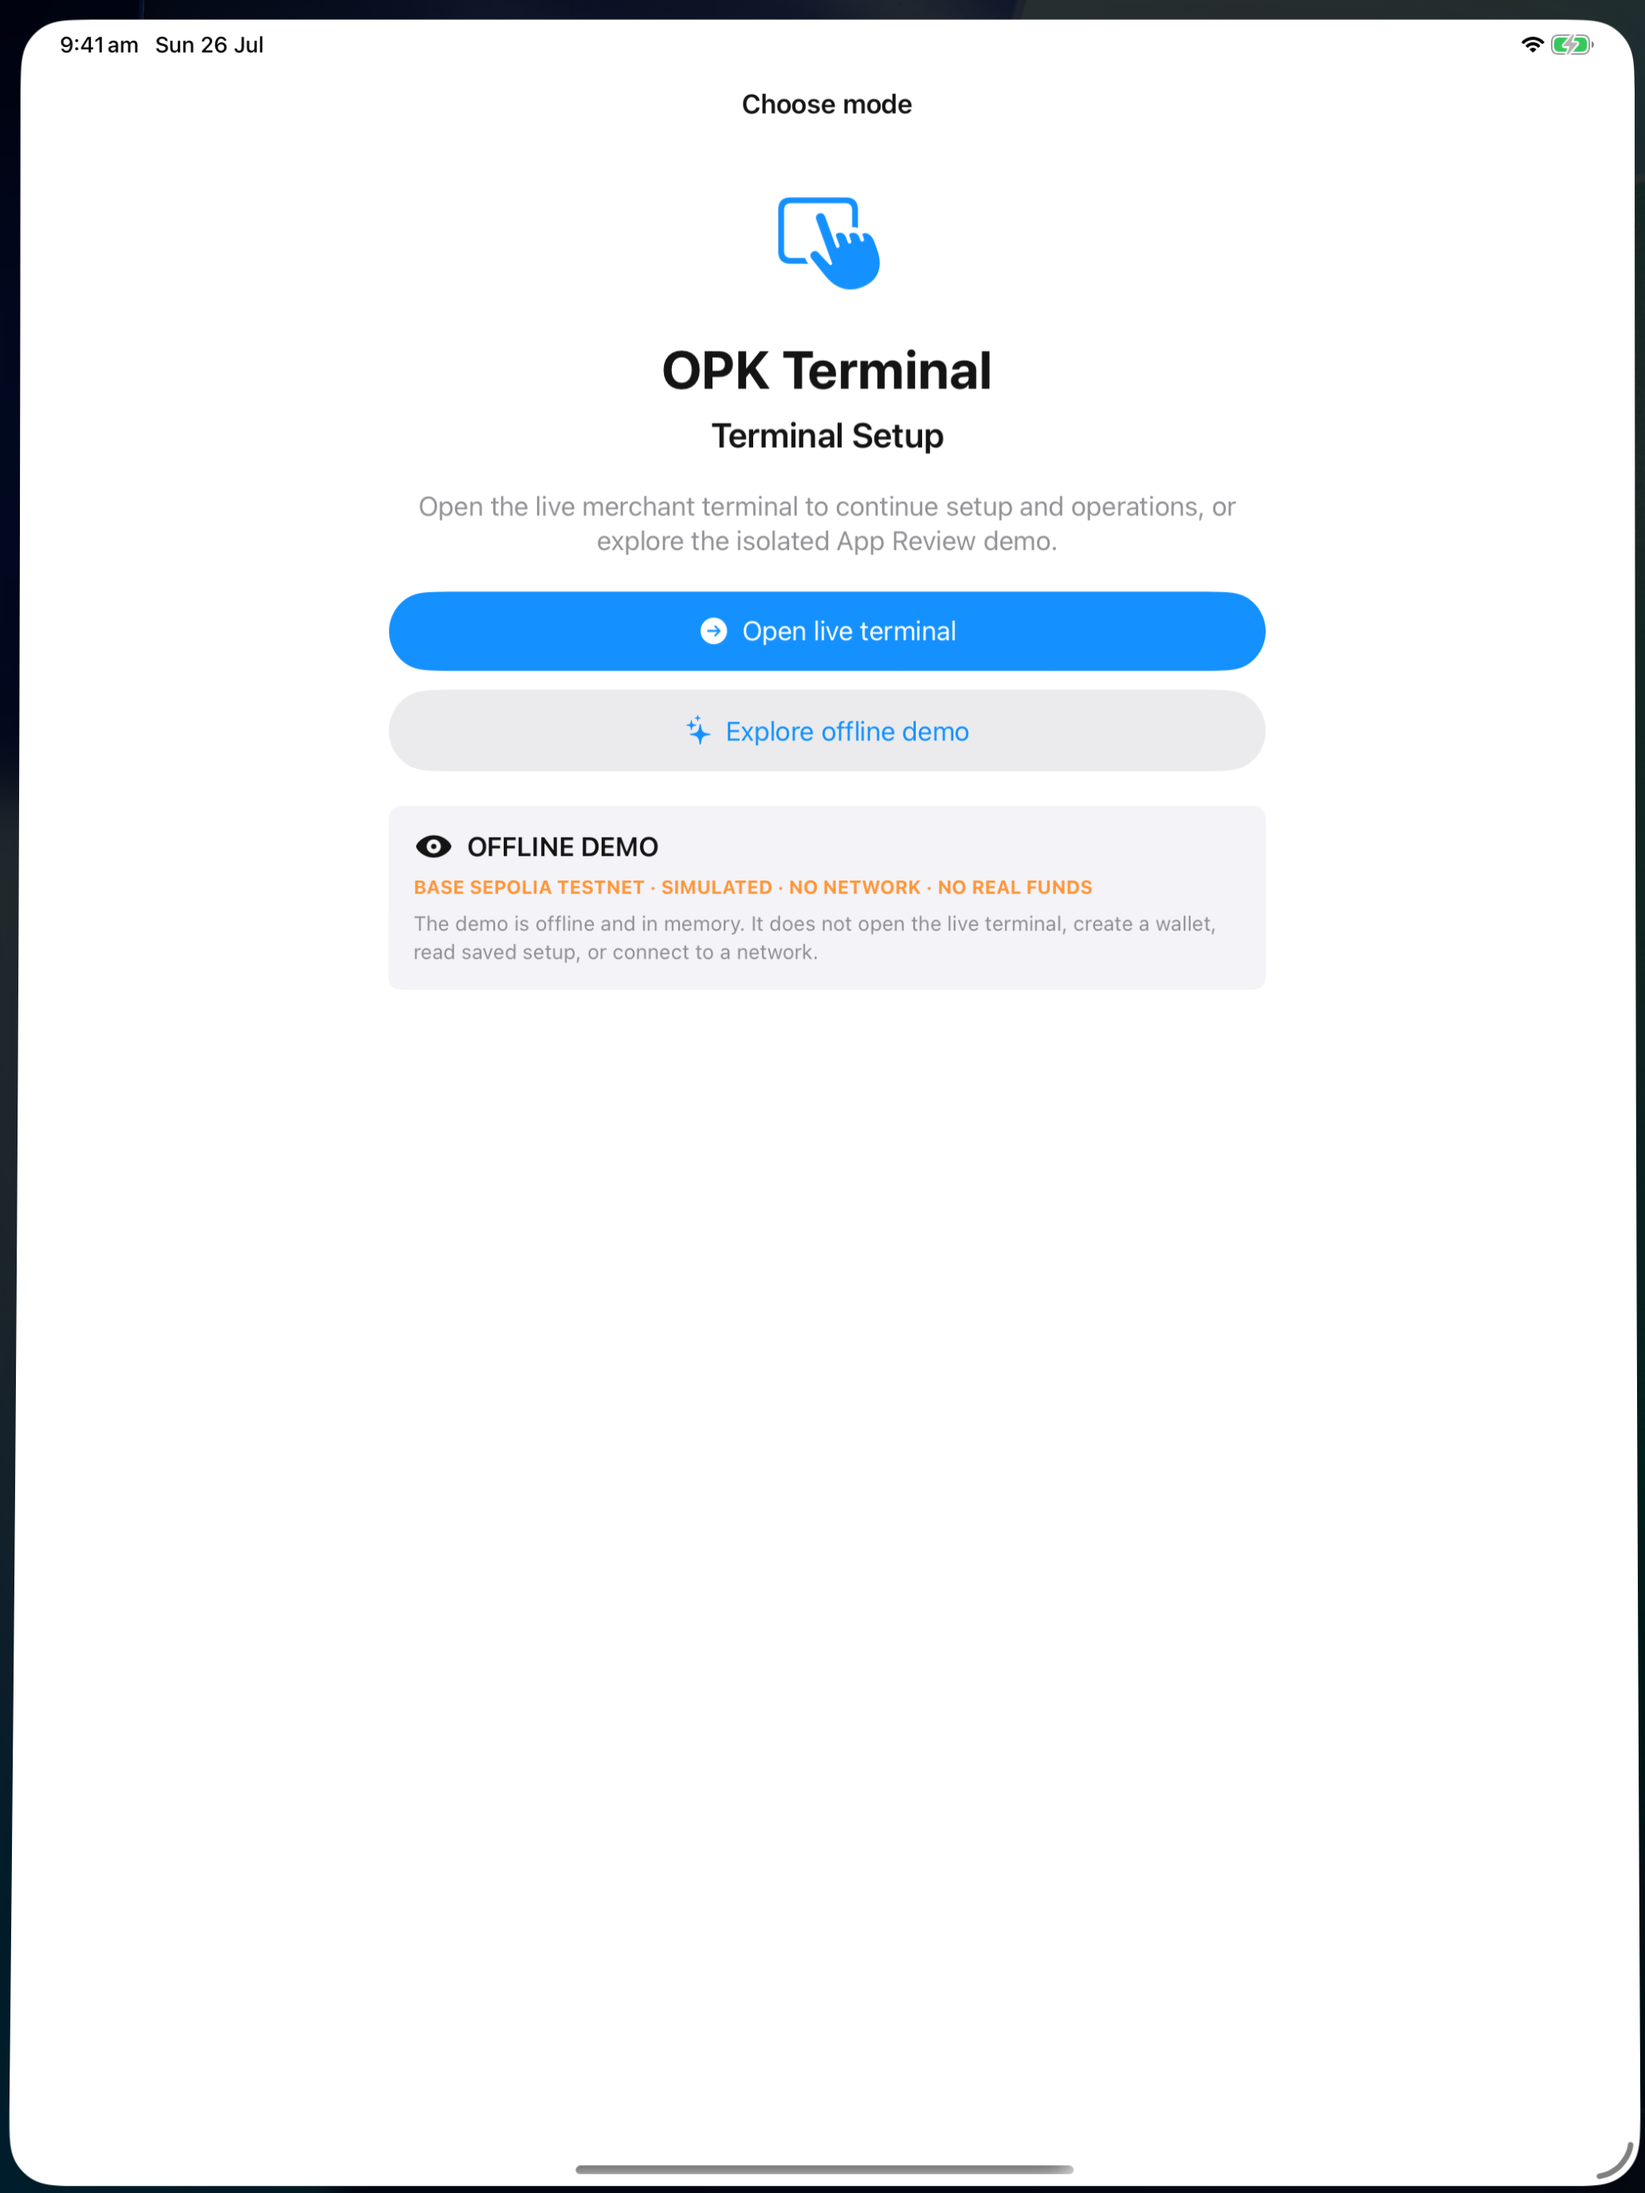
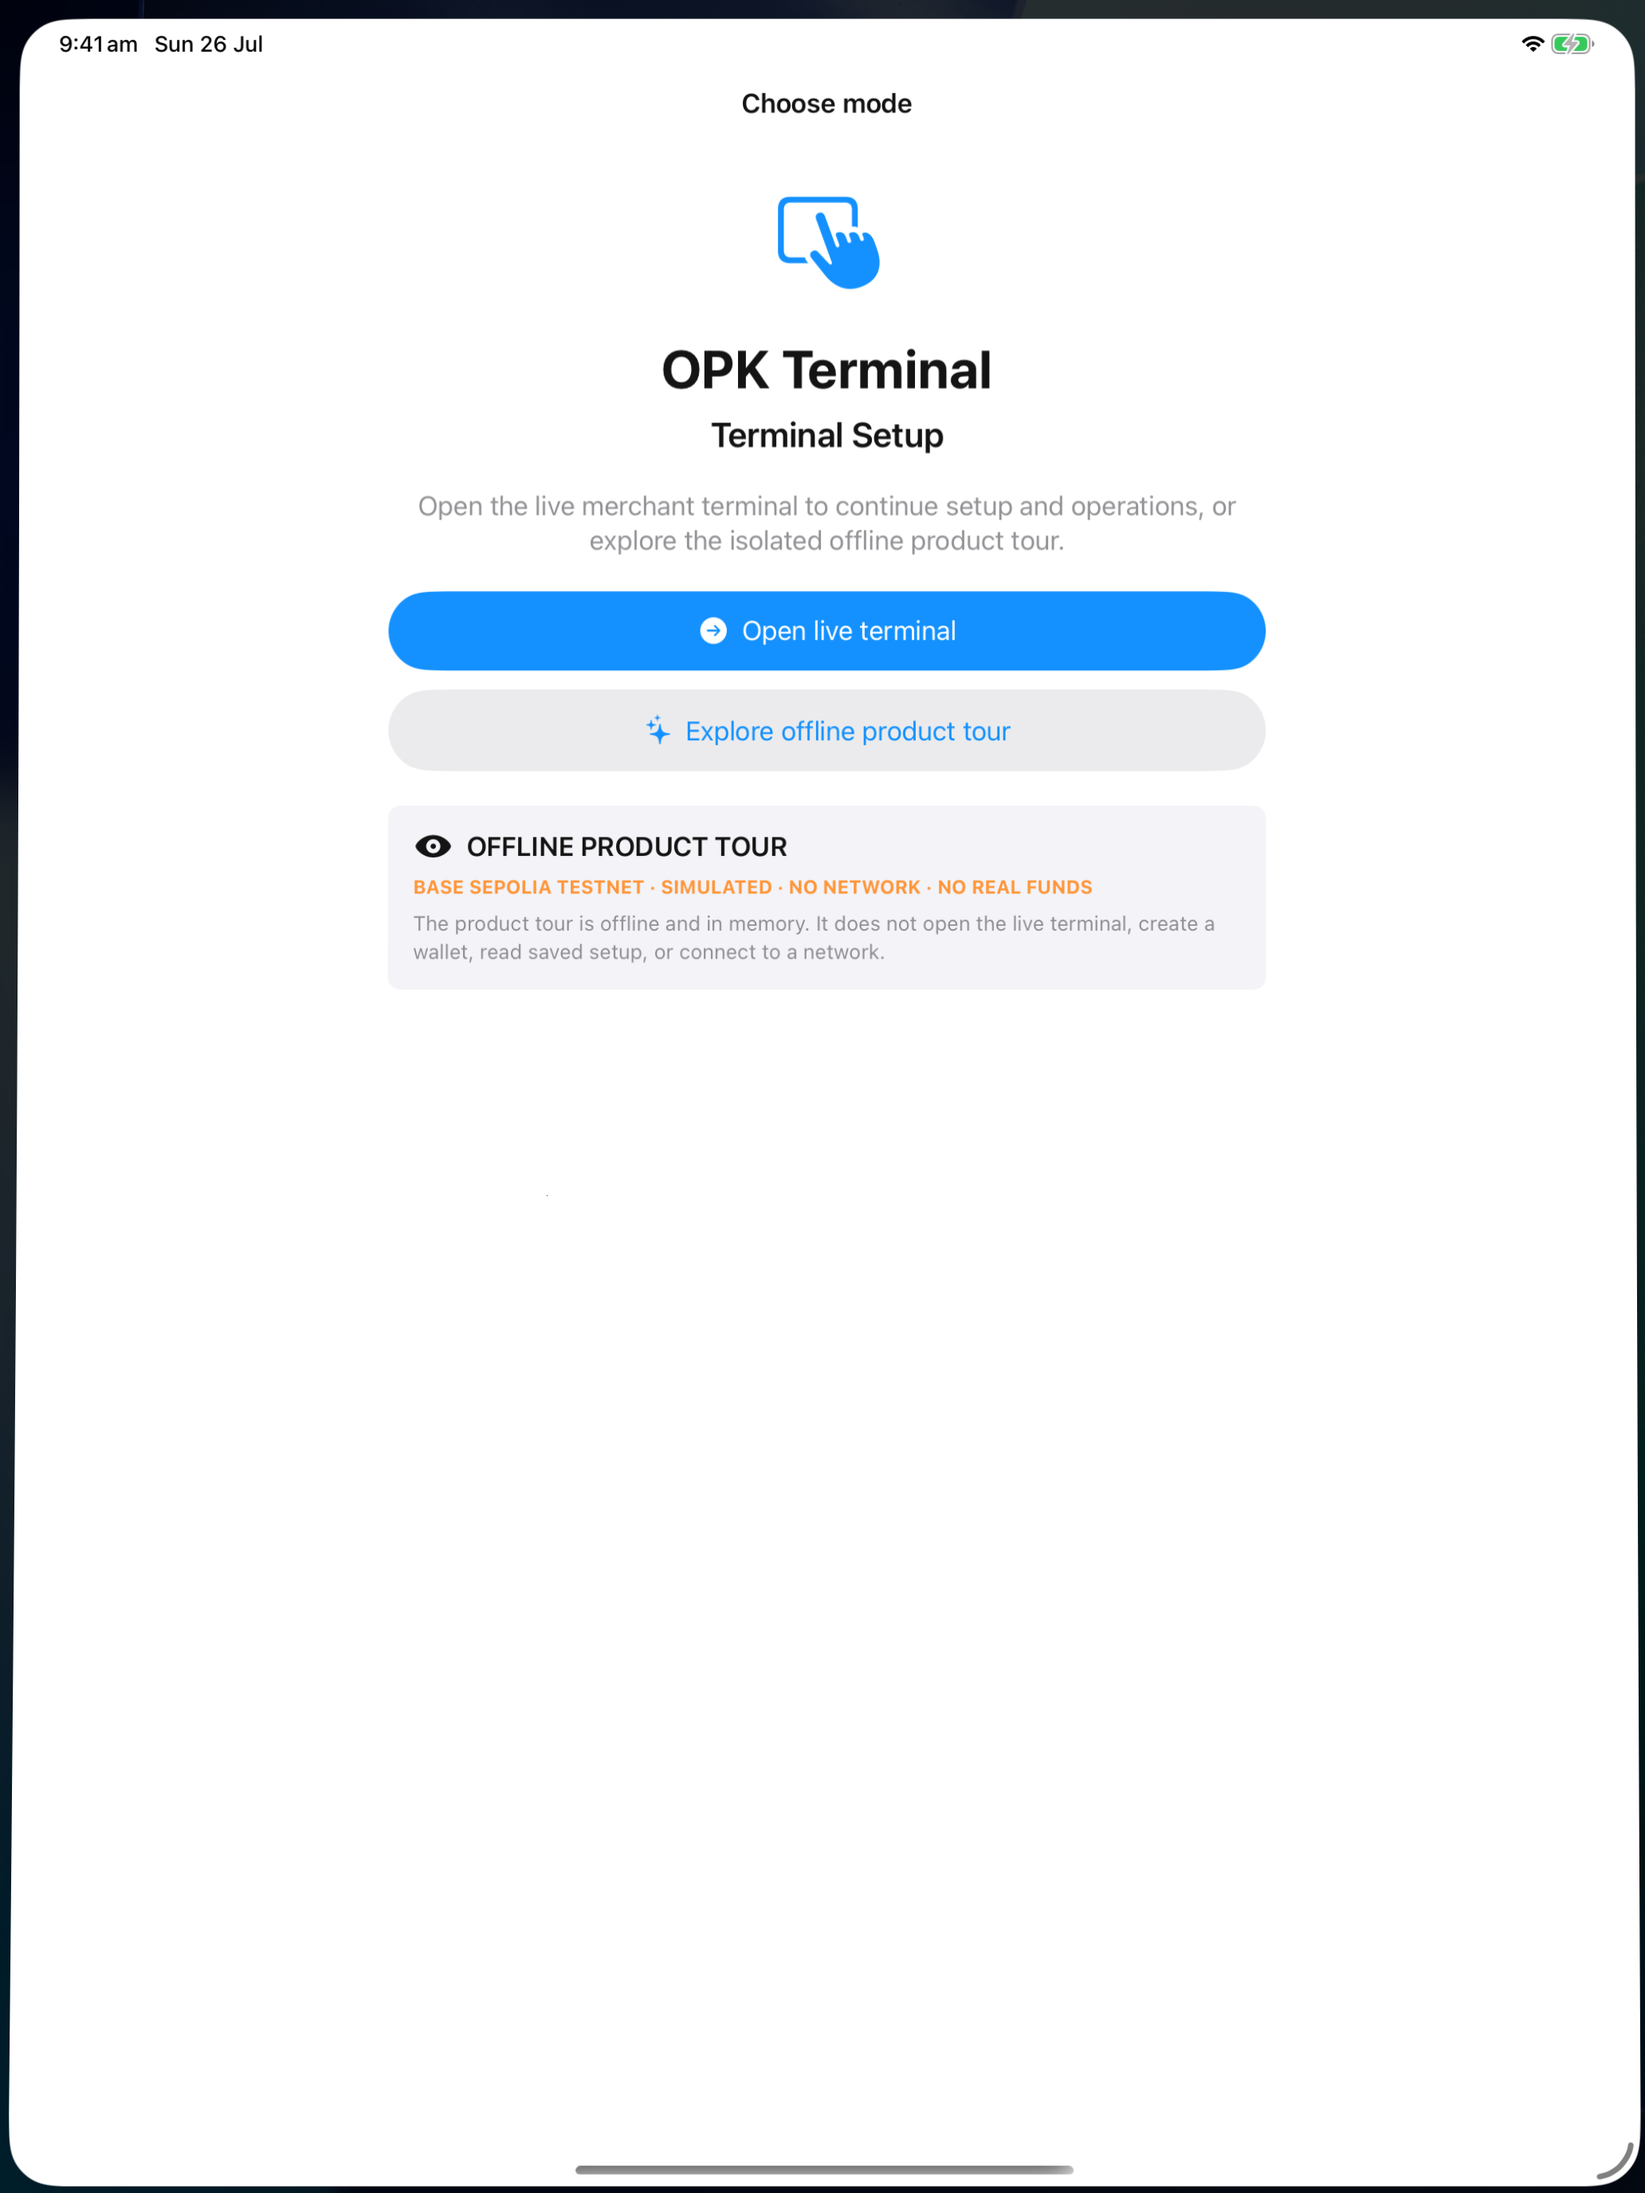
release: prepare build 14 store candidate

diff --git a/ios/App/Sources/TerminalLaunch.swift b/ios/App/Sources/TerminalLaunch.swift
@@ -50,7 +50,7 @@ struct TerminalLaunchChooserView: View {
                     }
 
                     Text(
-                        "Open the live merchant terminal to continue setup and operations, or explore the isolated App Review demo."
+                        "Open the live merchant terminal to continue setup and operations, or explore the isolated offline product tour."
                     )
                     .foregroundStyle(.secondary)
                     .multilineTextAlignment(.center)
@@ -65,7 +65,7 @@ struct TerminalLaunchChooserView: View {
                         .accessibilityIdentifier("launchOpenLiveTerminalButton")
 
                         Button(action: onExploreDemo) {
-                            Label("Explore offline demo", systemImage: "sparkles")
+                            Label("Explore offline product tour", systemImage: "sparkles")
                                 .frame(maxWidth: .infinity)
                         }
                         .buttonStyle(.bordered)
@@ -75,7 +75,7 @@ struct TerminalLaunchChooserView: View {
 
                     GroupBox {
                         VStack(alignment: .leading, spacing: 8) {
-                            Label("OFFLINE DEMO", systemImage: "eye.fill")
+                            Label("OFFLINE PRODUCT TOUR", systemImage: "eye.fill")
                                 .font(.headline)
                             Text(
                                 "BASE SEPOLIA TESTNET · SIMULATED · NO NETWORK · NO REAL FUNDS"
@@ -83,7 +83,7 @@ struct TerminalLaunchChooserView: View {
                                 .font(.caption.weight(.bold))
                                 .foregroundStyle(.orange)
                             Text(
-                                "The demo is offline and in memory. It does not open the live terminal, create a wallet, read saved setup, or connect to a network."
+                                "The product tour is offline and in memory. It does not open the live terminal, create a wallet, read saved setup, or connect to a network."
                             )
                             .font(.footnote)
                             .foregroundStyle(.secondary)

diff --git a/android/app/src/main/java/com/openpasskey/terminal/ui/demo/ColdLaunchRoot.kt b/android/app/src/main/java/com/openpasskey/terminal/ui/demo/ColdLaunchRoot.kt
@@ -105,7 +105,7 @@ private fun ColdLaunchChoice(
             textAlign = TextAlign.Center,
         )
         Text(
-            "Terminal setup & review",
+            "Merchant terminal setup",
             modifier = Modifier.padding(top = 8.dp, bottom = 24.dp),
             style = MaterialTheme.typography.titleMedium,
             color = MaterialTheme.colorScheme.onSurfaceVariant,
@@ -142,12 +142,12 @@ private fun ColdLaunchChoice(
                 verticalArrangement = Arrangement.spacedBy(12.dp),
             ) {
                 Text(
-                    "App reviewer?",
+                    "Explore OPK Terminal",
                     style = MaterialTheme.typography.titleLarge,
                     fontWeight = FontWeight.Bold,
                 )
                 Text(
-                    "Explore a self-contained offline preview before any wallet, storage, " +
+                    "Take a self-contained offline product tour before any wallet, storage, " +
                         "authentication, or network service is opened.",
                     style = MaterialTheme.typography.bodyMedium,
                 )
@@ -158,7 +158,7 @@ private fun ColdLaunchChoice(
                         .testTag("cold_launch_reviewer_demo"),
                 ) {
                     Icon(Icons.Default.PlayCircleOutline, contentDescription = null)
-                    Text("  Explore offline reviewer demo")
+                    Text("  Explore offline product tour")
                 }
                 Text(
                     "This preview does not configure or authorize the terminal.",

diff --git a/android/app/src/main/java/com/openpasskey/terminal/ui/demo/ReviewerDemoScreen.kt b/android/app/src/main/java/com/openpasskey/terminal/ui/demo/ReviewerDemoScreen.kt
@@ -41,7 +41,7 @@ import androidx.compose.ui.unit.dp
 import com.openpasskey.terminal.ui.components.QRCodeView
 
 /**
- * A self-contained reviewer preview. Its only input is a close callback, and its state is held
+ * A self-contained offline product tour. Its only input is a close callback, and its state is held
  * with [remember] rather than saveable or persistent storage so every closed/relaunched session
  * starts at Checkout / Waiting.
  */
@@ -53,7 +53,7 @@ internal fun ReviewerDemoScreen(onClose: () -> Unit) {
     Scaffold(
         topBar = {
             TopAppBar(
-                title = { Text("Offline reviewer demo") },
+                title = { Text("Offline product tour") },
                 navigationIcon = {
                     IconButton(
                         onClick = onClose,
@@ -61,7 +61,7 @@ internal fun ReviewerDemoScreen(onClose: () -> Unit) {
                     ) {
                         Icon(
                             Icons.AutoMirrored.Filled.ArrowBack,
-                            contentDescription = "Close reviewer demo",
+                            contentDescription = "Close product tour",
                         )
                     }
                 },

diff --git a/android/app/src/main/java/com/openpasskey/terminal/ui/demo/ReviewerDemoContract.kt b/android/app/src/main/java/com/openpasskey/terminal/ui/demo/ReviewerDemoContract.kt
@@ -1,7 +1,7 @@
 package com.openpasskey.terminal.ui.demo
 
 /**
- * Static, non-secret sample content for the reviewer-only offline preview.
+ * Static, non-secret sample content for the offline product tour.
  *
  * This contract deliberately contains only immutable values and a pure state reducer. It has no
  * Android, repository, persistence, wallet, authentication, signing, or network dependencies.
@@ -13,7 +13,7 @@ internal object ReviewerDemoCopy {
     const val NETWORK_LABEL = "BASE SEPOLIA TESTNET"
     const val FUNDS_LABEL = "NO REAL FUNDS"
     const val SAFETY_EXPLANATION =
-        "Offline reviewer preview. Nothing leaves this screen: no account, wallet, PIN, " +
+        "Offline product tour. Nothing leaves this screen: no account, wallet, PIN, " +
             "authentication, network request, signing, or transaction is used."
     const val RESET_EXPLANATION =
         "Demo activity is held in memory only and resets when you close this preview."

diff --git a/android/app/src/androidTest/java/com/openpasskey/terminal/ui/demo/ColdLaunchDemoIsolationTest.kt b/android/app/src/androidTest/java/com/openpasskey/terminal/ui/demo/ColdLaunchDemoIsolationTest.kt
@@ -51,7 +51,11 @@ class ColdLaunchDemoIsolationTest {
         }
 
         composeRule.onNodeWithTag("cold_launch_choice").assertIsDisplayed()
+        composeRule.onNodeWithText("Explore OPK Terminal").assertIsDisplayed()
+        composeRule.onNodeWithText("Explore offline product tour", substring = true)
+            .assertIsDisplayed()
         composeRule.onNodeWithTag("cold_launch_reviewer_demo").performClick()
+        composeRule.onNodeWithText("Offline product tour").assertIsDisplayed()
         composeRule.onNodeWithText(ReviewerDemoCopy.BANNER_LABEL).assertIsDisplayed()
         composeRule.onNodeWithTag("reviewer_demo_simulate_payment").performClick()
         composeRule.onNodeWithText("Paid").assertIsDisplayed()

diff --git a/android/app/src/test/java/com/openpasskey/terminal/ui/demo/ReviewerDemoContractTest.kt b/android/app/src/test/java/com/openpasskey/terminal/ui/demo/ReviewerDemoContractTest.kt
@@ -15,6 +15,7 @@ class ReviewerDemoContractTest {
             "OFFLINE DEMO · BASE SEPOLIA TESTNET · SIMULATED · NO NETWORK · NO REAL FUNDS",
             ReviewerDemoCopy.BANNER_LABEL,
         )
+        assertTrue(ReviewerDemoCopy.SAFETY_EXPLANATION.startsWith("Offline product tour."))
         assertTrue(ReviewerDemoCopy.SAFETY_EXPLANATION.contains("Nothing leaves this screen"))
         assertTrue(ReviewerDemoCopy.RESET_EXPLANATION.contains("memory only"))
         assertEquals("1.00", ReviewerDemoCopy.SAMPLE_AMOUNT)

diff --git a/ios/App/Sources/ReviewerDemo.swift b/ios/App/Sources/ReviewerDemo.swift
@@ -4,7 +4,7 @@ enum ReviewerDemoCopy {
     static let safetyBannerLabel =
         "OFFLINE DEMO · BASE SEPOLIA TESTNET · SIMULATED · NO NETWORK · NO REAL FUNDS"
     static let isolationDetail =
-        "Offline, in-memory preview. No wallet, network request, signing, broadcast, or storage is used."
+        "Offline, in-memory product tour. No wallet, network request, signing, broadcast, or storage is used."
 
     static let sampleAmount = "1.00"
     static let sampleSymbol = "USDC"

diff --git a/ios/AppUITests/KeyboardDismissalUITests.swift b/ios/AppUITests/KeyboardDismissalUITests.swift
@@ -46,7 +46,7 @@ final class KeyboardDismissalUITests: XCTestCase {
 
         let demoButton = app.buttons["launchReviewerDemoButton"]
         XCTAssertTrue(demoButton.exists)
-        XCTAssertEqual(demoButton.label, "Explore offline demo")
+        XCTAssertEqual(demoButton.label, "Explore offline product tour")
         demoButton.tap()
 
         XCTAssertTrue(element(identifier: "reviewerDemoRoot").waitForExistence(timeout: 5))

diff --git a/ios/AppUITests/StoreScreenshotUITests.swift b/ios/AppUITests/StoreScreenshotUITests.swift
@@ -63,7 +63,7 @@ final class StoreScreenshotUITests: XCTestCase {
 
         let demoButton = app.buttons["launchReviewerDemoButton"]
         XCTAssertTrue(demoButton.exists)
-        XCTAssertEqual(demoButton.label, "Explore offline demo")
+        XCTAssertEqual(demoButton.label, "Explore offline product tour")
         demoButton.tap()
 
         let safetyLabel = element("reviewerDemoSafetyLabel")

diff --git a/ios/AppTests/ReviewerDemoTests.swift b/ios/AppTests/ReviewerDemoTests.swift
@@ -11,6 +11,7 @@ final class ReviewerDemoTests: XCTestCase {
         )
         XCTAssertTrue(ReviewerDemoCopy.isolationDetail.contains("Offline"))
         XCTAssertTrue(ReviewerDemoCopy.isolationDetail.contains("in-memory"))
+        XCTAssertTrue(ReviewerDemoCopy.isolationDetail.contains("product tour"))
     }
 
     func testSamplePaymentURIIsCanonicalBaseSepoliaERC681() throws {
